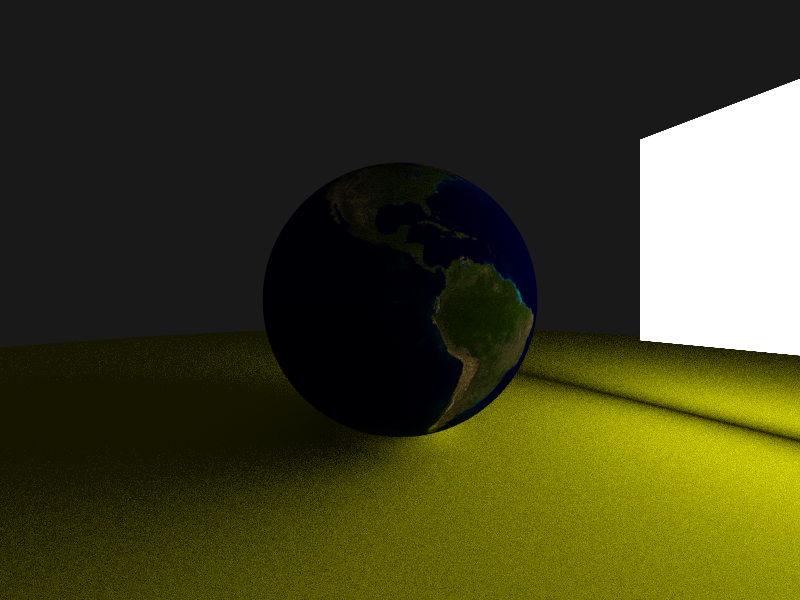
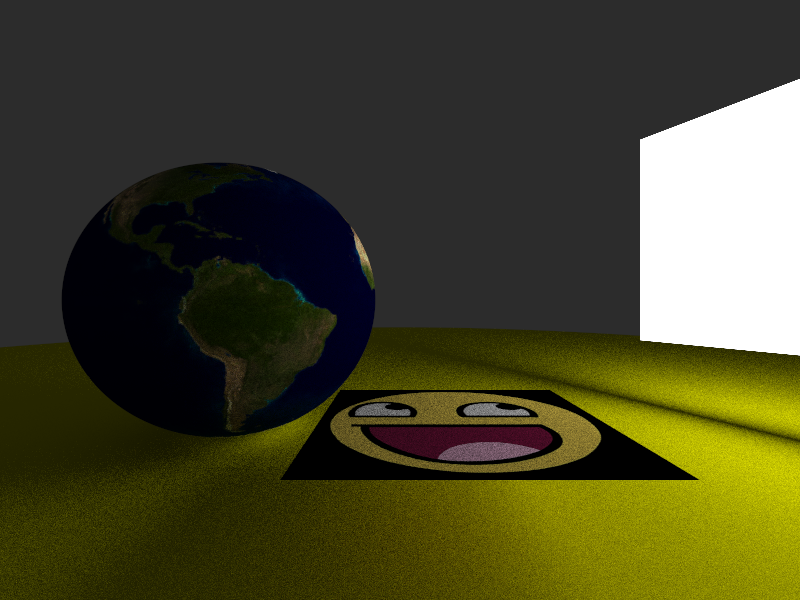
implement texture mapping for triangles

Changed region(s): [[0.0, 0.27, 1.0, 1.0], [0.9062, 0.69, 1.0, 0.75], [0.9688, 0.81, 1.0, 0.87]]

diff --git a/src/hittable.rs b/src/hittable.rs
@@ -1,11 +1,12 @@
 use std::f64::consts::PI;
+use std::ops;
 
-use crate::vec3::Vec3;
+use crate::vec3::{ Vec3, Vec2 };
 use crate::ray::Ray;
 use crate::material::Material;
 
 pub trait Hittable {
-    fn hit(&self, ray: &Ray) -> Option<HitRecord>;
+    fn hit(&self, ray: &Ray) -> Option<HitRecord<'_>>;
 }
 
 #[derive(Debug, Clone, Copy)]
@@ -17,8 +18,9 @@ pub enum Facing {
 pub struct HitRecord<'a> {
     pub t: f64,
     pub pos: Vec3,
+    // normalized
     pub normal: Vec3,
-    pub uv: (f64, f64),
+    pub tex_coords: Vec2,
     pub facing: Facing,
     pub material: &'a dyn Material
 }
@@ -34,15 +36,15 @@ impl<'a> Sphere<'a> {
         Self { center, radius, material }
     }
 
-    pub fn get_uv(pos: Vec3) -> (f64, f64) {
+    pub fn get_uv(pos: Vec3) -> Vec2 {
         let theta = (-pos.1).acos();
         let phi = (-pos.2).atan2(pos.0) + PI;
-        (phi / (2.0 * PI), theta / PI)
+        Vec2(phi / (2.0 * PI), theta / PI)
     }
 }
 
 impl Hittable for Sphere<'_> {
-    fn hit(&self, ray: &Ray) -> Option<HitRecord> {
+    fn hit(&self, ray: &Ray) -> Option<HitRecord<'_>> {
         let oc = self.center - ray.origin;
         let a = ray.dir.length_squared();
         let h = Vec3::dot(ray.dir, oc); // h = -b / 2
@@ -67,7 +69,7 @@ impl Hittable for Sphere<'_> {
                 t: t1,
                 pos: pos,
                 normal: normal,
-                uv: Self::get_uv(normal),
+                tex_coords: Self::get_uv(normal),
                 facing: Facing::Front,
                 material: self.material
             })
@@ -79,7 +81,7 @@ impl Hittable for Sphere<'_> {
                 t: t2,
                 pos: pos,
                 normal: normal,
-                uv: Self::get_uv(normal),
+                tex_coords: Self::get_uv(normal),
                 facing: Facing::Back,
                 material: self.material
             })
@@ -90,28 +92,48 @@ impl Hittable for Sphere<'_> {
 
 pub struct Triangle<'a> {
     vertices: [Vec3; 3],
+    normal: [Vec3; 3],
+    tex_coords: [Vec2; 3],
     v1: Vec3,
     v2: Vec3,
-    normal: Vec3,
     material: &'a dyn Material
 }
 
 impl<'a> Triangle<'a> {
-    pub fn new(vertices: [Vec3; 3], material: &'a dyn Material) -> Self {
+    pub fn new(vertices: [Vec3; 3], normal: [Vec3; 3], tex_coords: [Vec2; 3], material: &'a dyn Material) -> Self {
         let v1 = vertices[1] - vertices[0];
         let v2 = vertices[2] - vertices[0];
         Self {
-            vertices: vertices,
-            v1: v1,
-            v2: v2,
-            normal: Vec3::cross(v1, v2).normalize(),
-            material: material
+            vertices,
+            normal,
+            tex_coords,
+            v1,
+            v2,
+            material
         }
+    }
+
+    pub fn new_with_vertices(vertices: [Vec3; 3], material: &'a dyn Material) -> Self {
+        let v1 = vertices[1] - vertices[0];
+        let v2 = vertices[2] - vertices[0];
+        Self {
+            vertices,
+            normal: [Vec3::cross(v1, v2).normalize(); 3],
+            tex_coords: [Vec2::zero(); 3],
+            v1,
+            v2,
+            material
+        }
+    }
+
+    pub fn interpolate<T>(value: &[T; 3], (u, v): (f64, f64)) -> T
+    where T: ops::Add<Output = T> + ops::Mul<f64, Output = T> + Copy {
+        value[0] * (1.0 - u - v) + value[1] * u + value[2] * v
     }
 }
 
 impl Hittable for Triangle<'_> {
-    fn hit(&self, ray: &Ray) -> Option<HitRecord> {
+    fn hit(&self, ray: &Ray) -> Option<HitRecord<'_>> {
         // Möller-Trumbore
 
         let s1 = Vec3::cross(ray.dir, self.v2);
@@ -144,12 +166,15 @@ impl Hittable for Triangle<'_> {
             return None;
         }
 
+        let normal = Self::interpolate(&self.normal, (u, v)).normalize();
+        let tex_coords = Self::interpolate(&self.tex_coords, (u, v));
+
         Some(HitRecord {
             t: t,
             pos: ray.at(t),
-            normal: self.normal,
-            uv: (0.0, 0.0), // todoo
-            facing: Facing::Front, // todo
+            normal: normal,
+            tex_coords: tex_coords,
+            facing: Facing::Front, //todo
             material: self.material
         })
     }

diff --git a/src/main.rs b/src/main.rs
@@ -1,4 +1,4 @@
-use vec3::Vec3;
+use vec3::{ Vec3, Vec2 };
 use texture::Texture;
 use camera::Camera;
 use hittable::{ Hittable, Sphere, Triangle };
@@ -24,14 +24,20 @@ fn main() {
     let earthmap_buf = earthmap_img.as_raw();
     let earthmap = Texture::from_rgb_buffer(earthmap_width, earthmap_height, earthmap_buf);
 
+    let awesomeface_img = ImageReader::open("awesomeface.png").unwrap().decode().unwrap().to_rgb8();
+    let (awesomeface_width, awesomeface_height) = awesomeface_img.dimensions();
+    let awesomeface_buf = awesomeface_img.as_raw();
+    let awesomeface = Texture::from_rgb_buffer(awesomeface_width, awesomeface_height, awesomeface_buf);
+
     // world
     let mut world: Vec<&dyn Hittable> = Vec::new();
     let mat_center = BasicMaterial::new(&earthmap);
     let mat_ground = Lambertian::new(Vec3(0.8, 0.8, 0.0));
     let mat_light = Light::new(Vec3(4.0, 4.0, 4.0));
+    let mat_tri = BasicMaterial::new(&awesomeface);
 
     let center = Sphere::new(
-        Vec3(0.0, 0.0, -1.2),
+        Vec3(-0.6, 0.0, -1.2),
         0.5,
         &mat_center
     );
@@ -40,19 +46,32 @@ fn main() {
         100.0,
         &mat_ground
     );
-    let light_1 = Triangle::new(
+    let light_1 = Triangle::new_with_vertices(
         [Vec3(1.8, -0.2, -0.5), Vec3(1.8, 0.8, -0.5), Vec3(1.2, -0.2, -1.5)],
         &mat_light
     );
-    let light_2 = Triangle::new(
+    let light_2 = Triangle::new_with_vertices(
         [Vec3(1.2, 0.8, -1.5), Vec3(1.8, 0.8, -0.5), Vec3(1.2, -0.2, -1.5)],
         &mat_light
     );
-    
+    let tri_1 = Triangle::new(
+        [Vec3(0.5, -0.3, -1.0), Vec3(0.5, -0.3, -0.5), Vec3(-0.2, -0.3, -1.0)],
+        [Vec3(0.0, 1.0, 0.0); 3],
+        [Vec2(1.0, 1.0), Vec2(1.0, 0.0), Vec2(0.0, 1.0)],
+        &mat_tri
+    );
+    let tri_2 = Triangle::new(
+        [Vec3(-0.2, -0.3, -0.5), Vec3(0.5, -0.3, -0.5), Vec3(-0.2, -0.3, -1.0)],
+        [Vec3(0.0, 1.0, 0.0); 3],
+        [Vec2(0.0, 0.0), Vec2(1.0, 0.0), Vec2(0.0, 1.0)],
+        &mat_tri
+    );
     world.push(&center);
     world.push(&ground);
     world.push(&light_1);
     world.push(&light_2);
+    world.push(&tri_1);
+    world.push(&tri_2);
 
     // camera
     let cam = Camera {
@@ -60,6 +79,7 @@ fn main() {
         height: IMG_HEIGHT,
         sample_per_pixel: 400,
         max_depth: 30,
+        background: Vec3(0.03, 0.03, 0.03),
         ..Default::default()
     };
     let data = cam.render(&world);

diff --git a/src/vec3.rs b/src/vec3.rs
@@ -171,3 +171,30 @@ impl Vec3 {
         Some(ray_out_perp + ray_out_para)
     }
 }
+
+
+#[derive(Debug, Clone, Copy)]
+pub struct Vec2(pub f64, pub f64);
+
+impl ops::Add for Vec2 {
+    type Output = Self;
+
+    fn add(self, rhs: Self) -> Self {
+        Self(self.0 + rhs.0, self.1 + rhs.1)
+    }
+}
+
+impl<T> ops::Mul<T> for Vec2
+where T: Into<f64> + Copy {
+    type Output = Self;
+
+    fn mul(self, scalar: T) -> Self {
+        Self(self.0 * scalar.into(), self.1 * scalar.into())
+    }
+}
+
+impl Vec2 {
+    pub fn zero() -> Self {
+        Self(0.0, 0.0)
+    }
+}

diff --git a/src/material.rs b/src/material.rs
@@ -1,5 +1,5 @@
 use crate::texture::Texture;
-use crate::vec3::Vec3;
+use crate::vec3::{ Vec3, Vec2 };
 use crate::ray::Ray;
 use crate::hittable::{ HitRecord, Facing };
 
@@ -124,7 +124,7 @@ impl<'a> BasicMaterial<'a> {
 
 impl Material for BasicMaterial<'_> {
     fn scatter(&self, _ray_in: &Ray, hit_record: &HitRecord) -> Option<(Ray, Vec3)> {
-        let (u, v ) = hit_record.uv;
+        let Vec2(u, v) = hit_record.tex_coords;
         let albedo = self.albedo.sample(u, v);
 
         if albedo.near_zero() {
